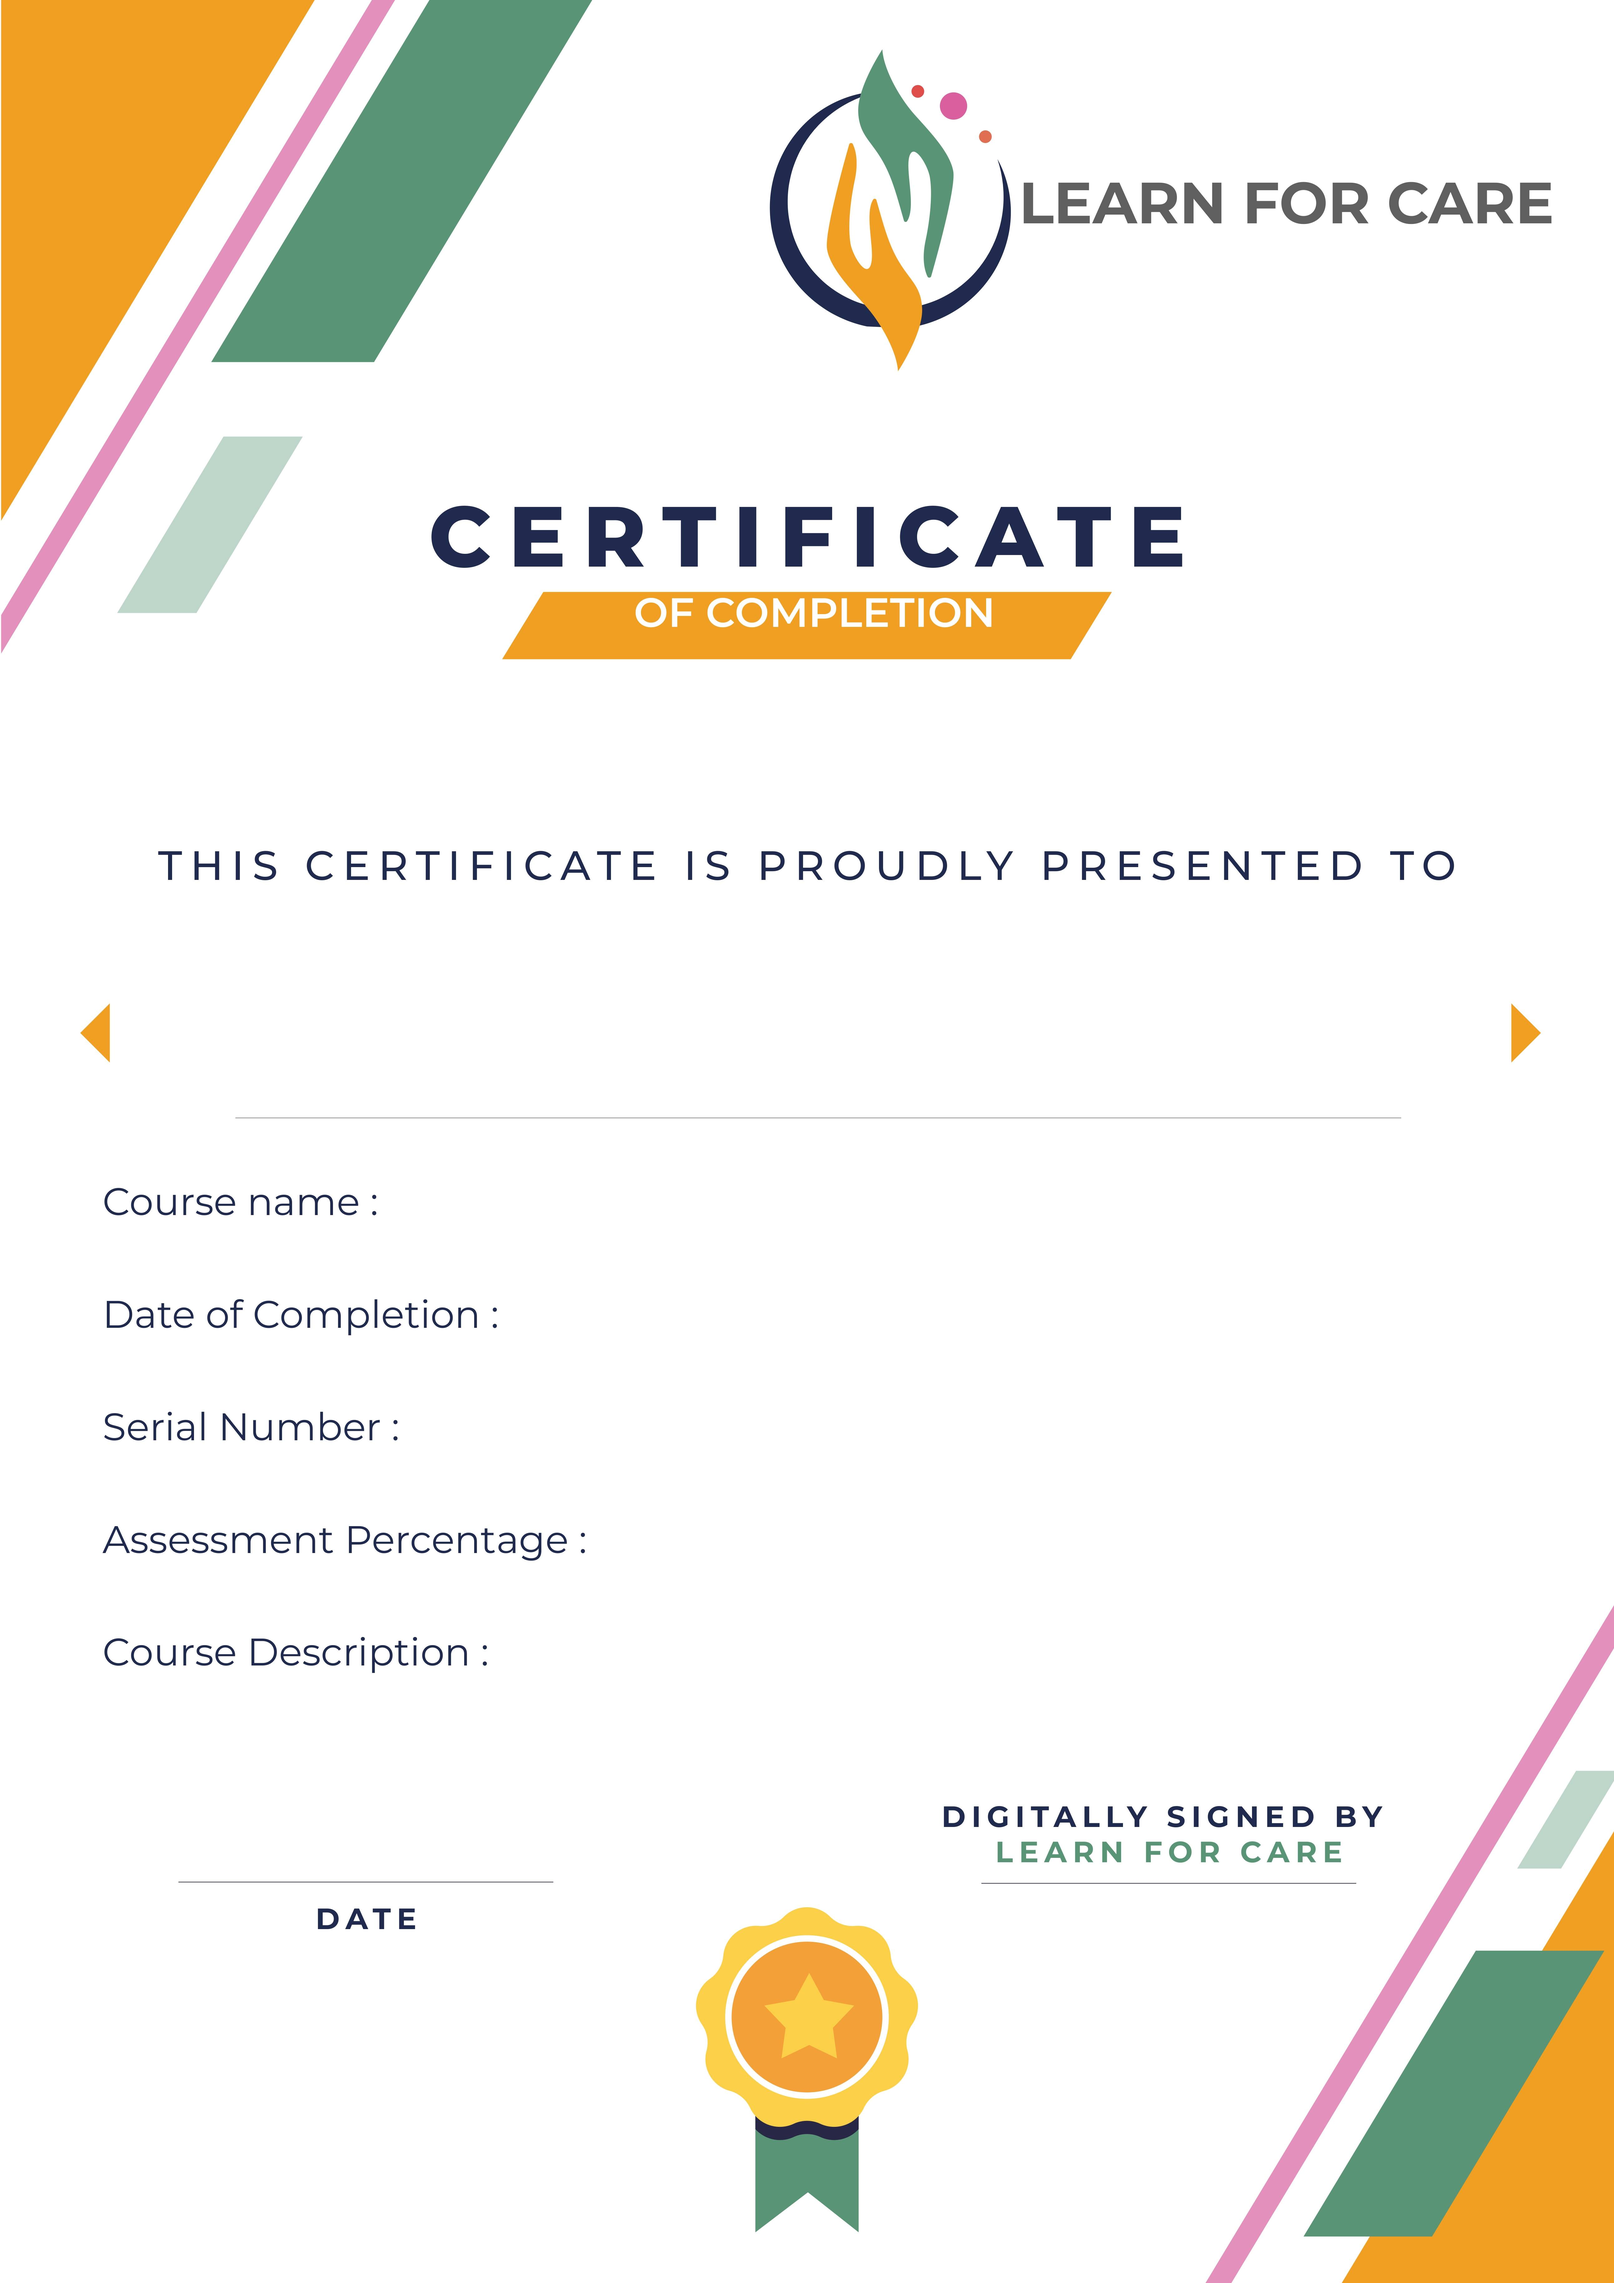
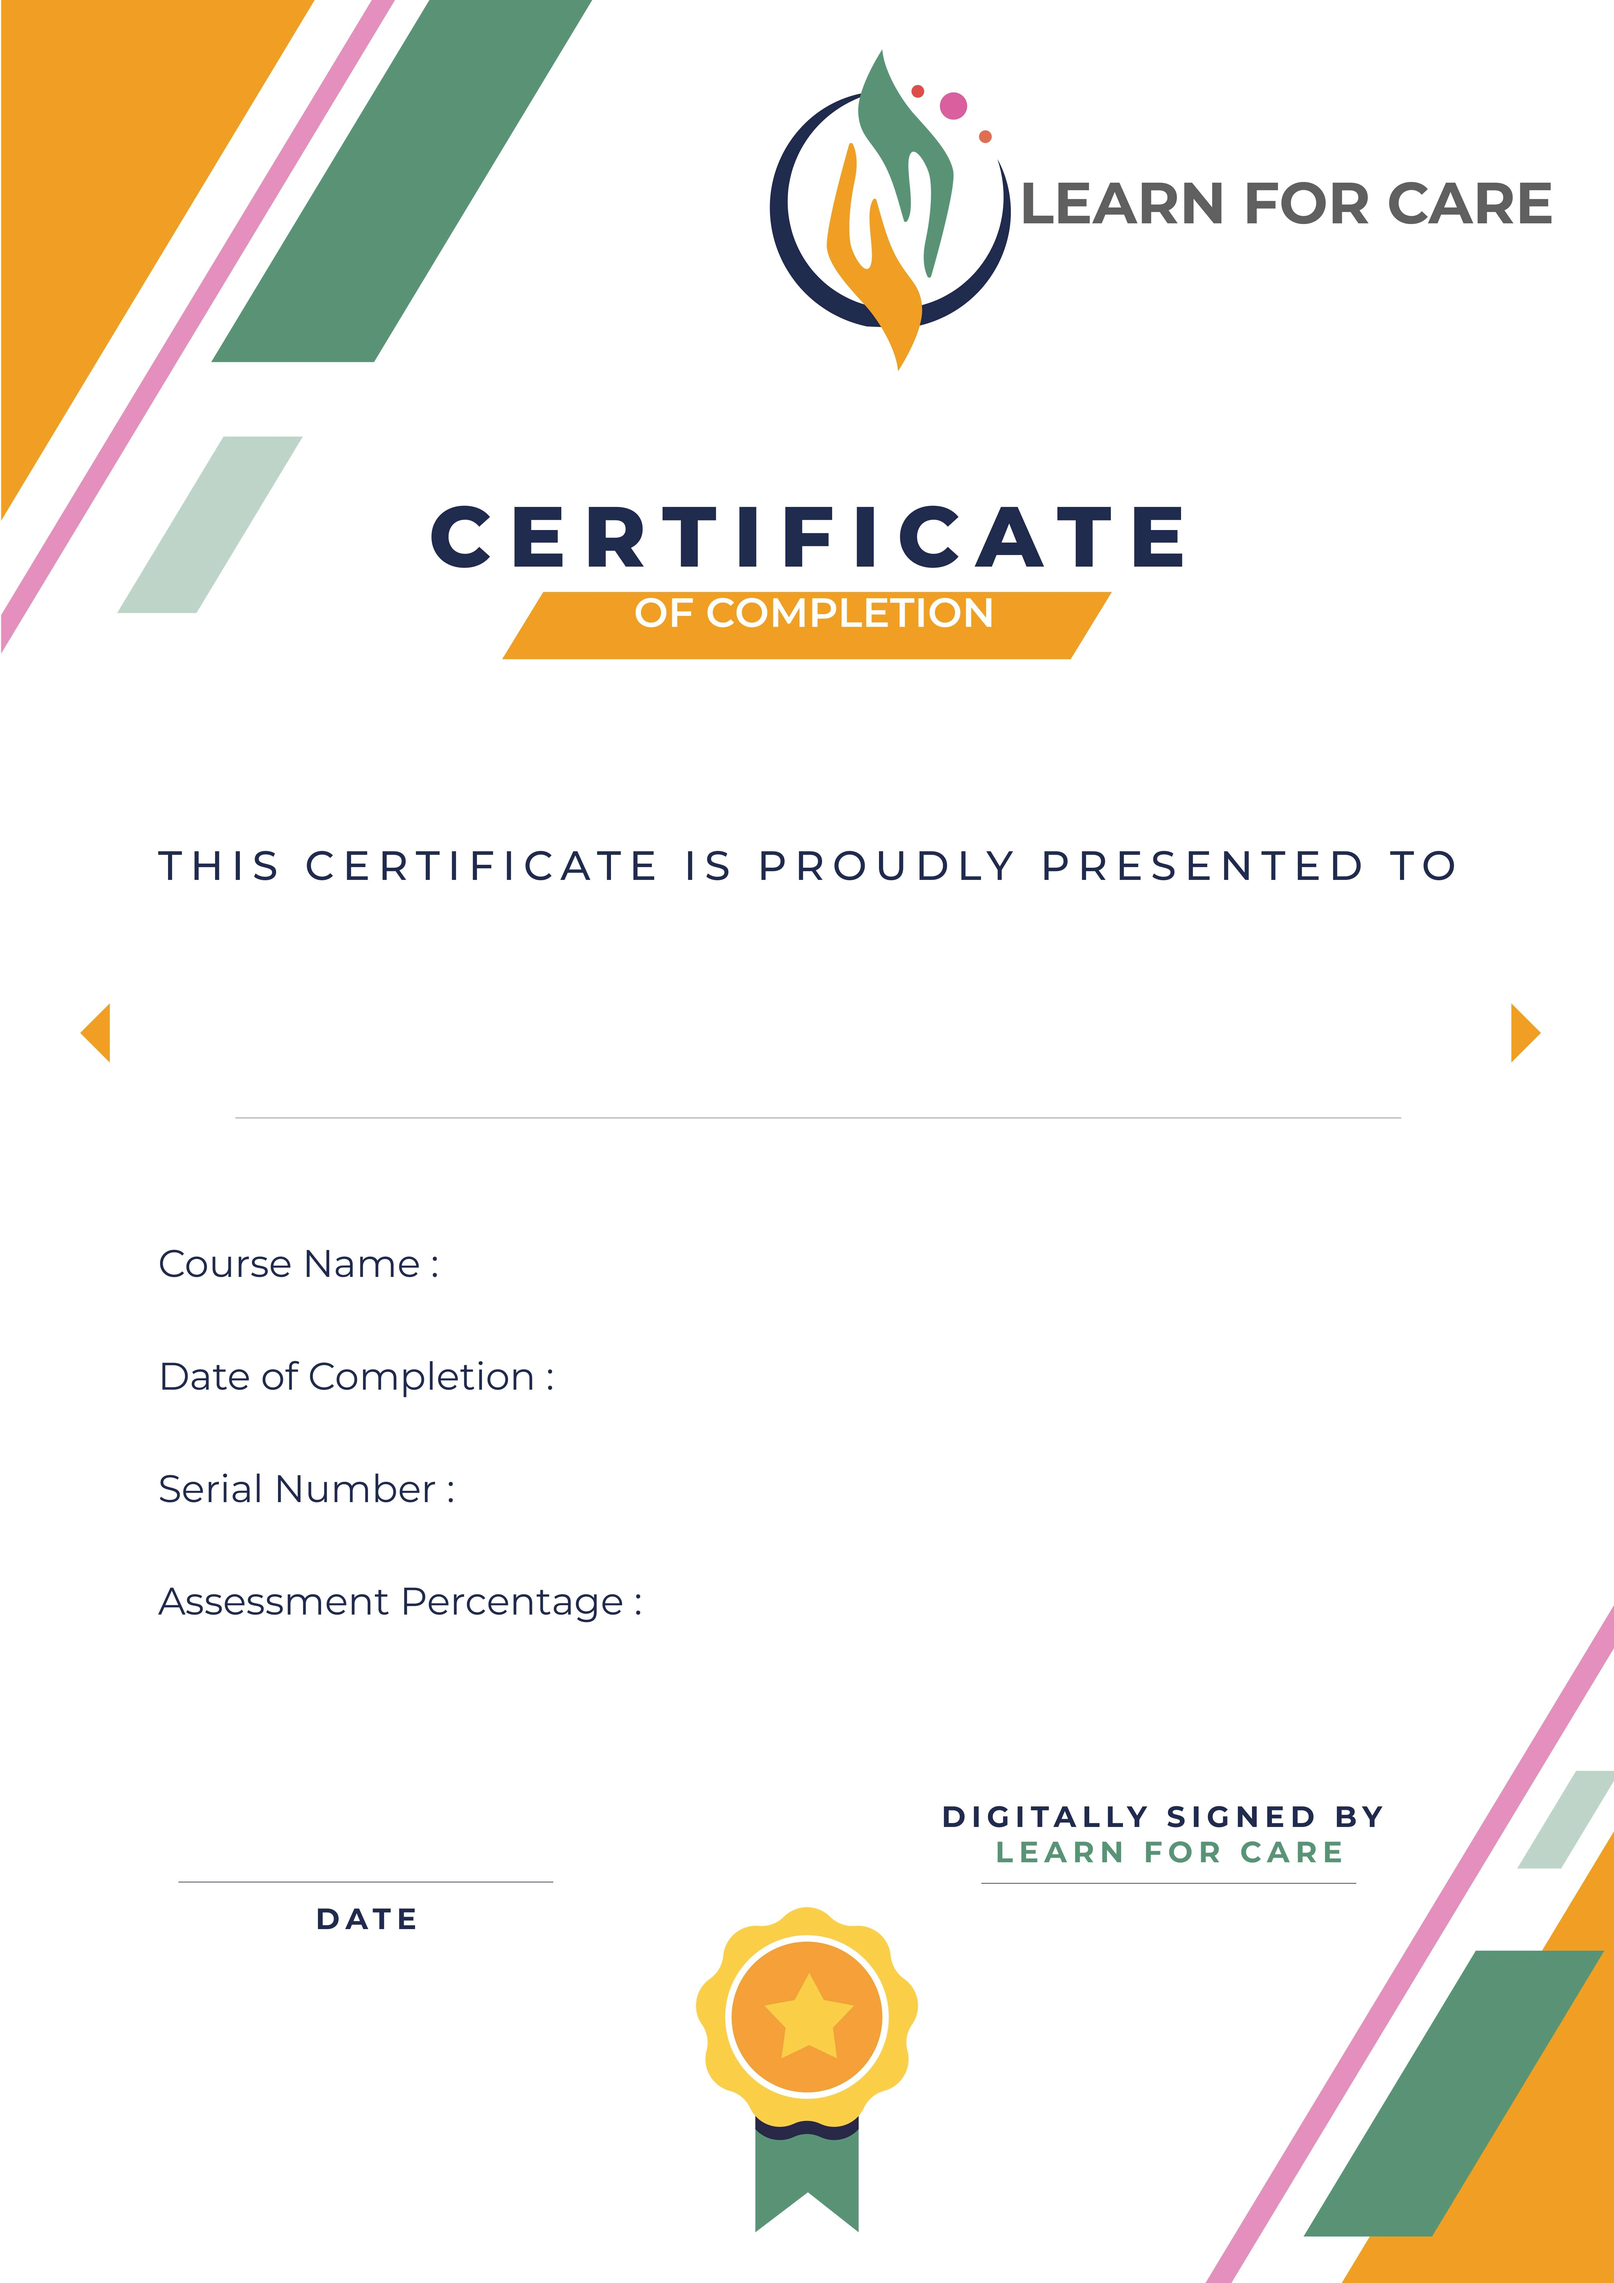
certificate updated

diff --git a/src/certificate/courseCertificate.js b/src/certificate/courseCertificate.js
@@ -57,17 +57,15 @@ export async function saveCertificate({
 
       doc.fontSize(15);
 
-      doc.text(courseName, 230, 445);
+      doc.text(courseName, 255, 469);
 
-      doc.text(newDate, 230, 488);
+      doc.text(newDate, 255, 512);
   
-      doc.text(sl, 230, 531);
+      doc.text(sl, 255, 555);
   
-      doc.text(per+"%", 230, 575);
+      doc.text("80%", 255, 598);
   
-      doc.text("some text for course description".split(1, 60), 230, 620);
-
-      doc.text(newDate, 100, 682);
+      doc.text(newDate, 110, 692);
 
       doc.end();
 
